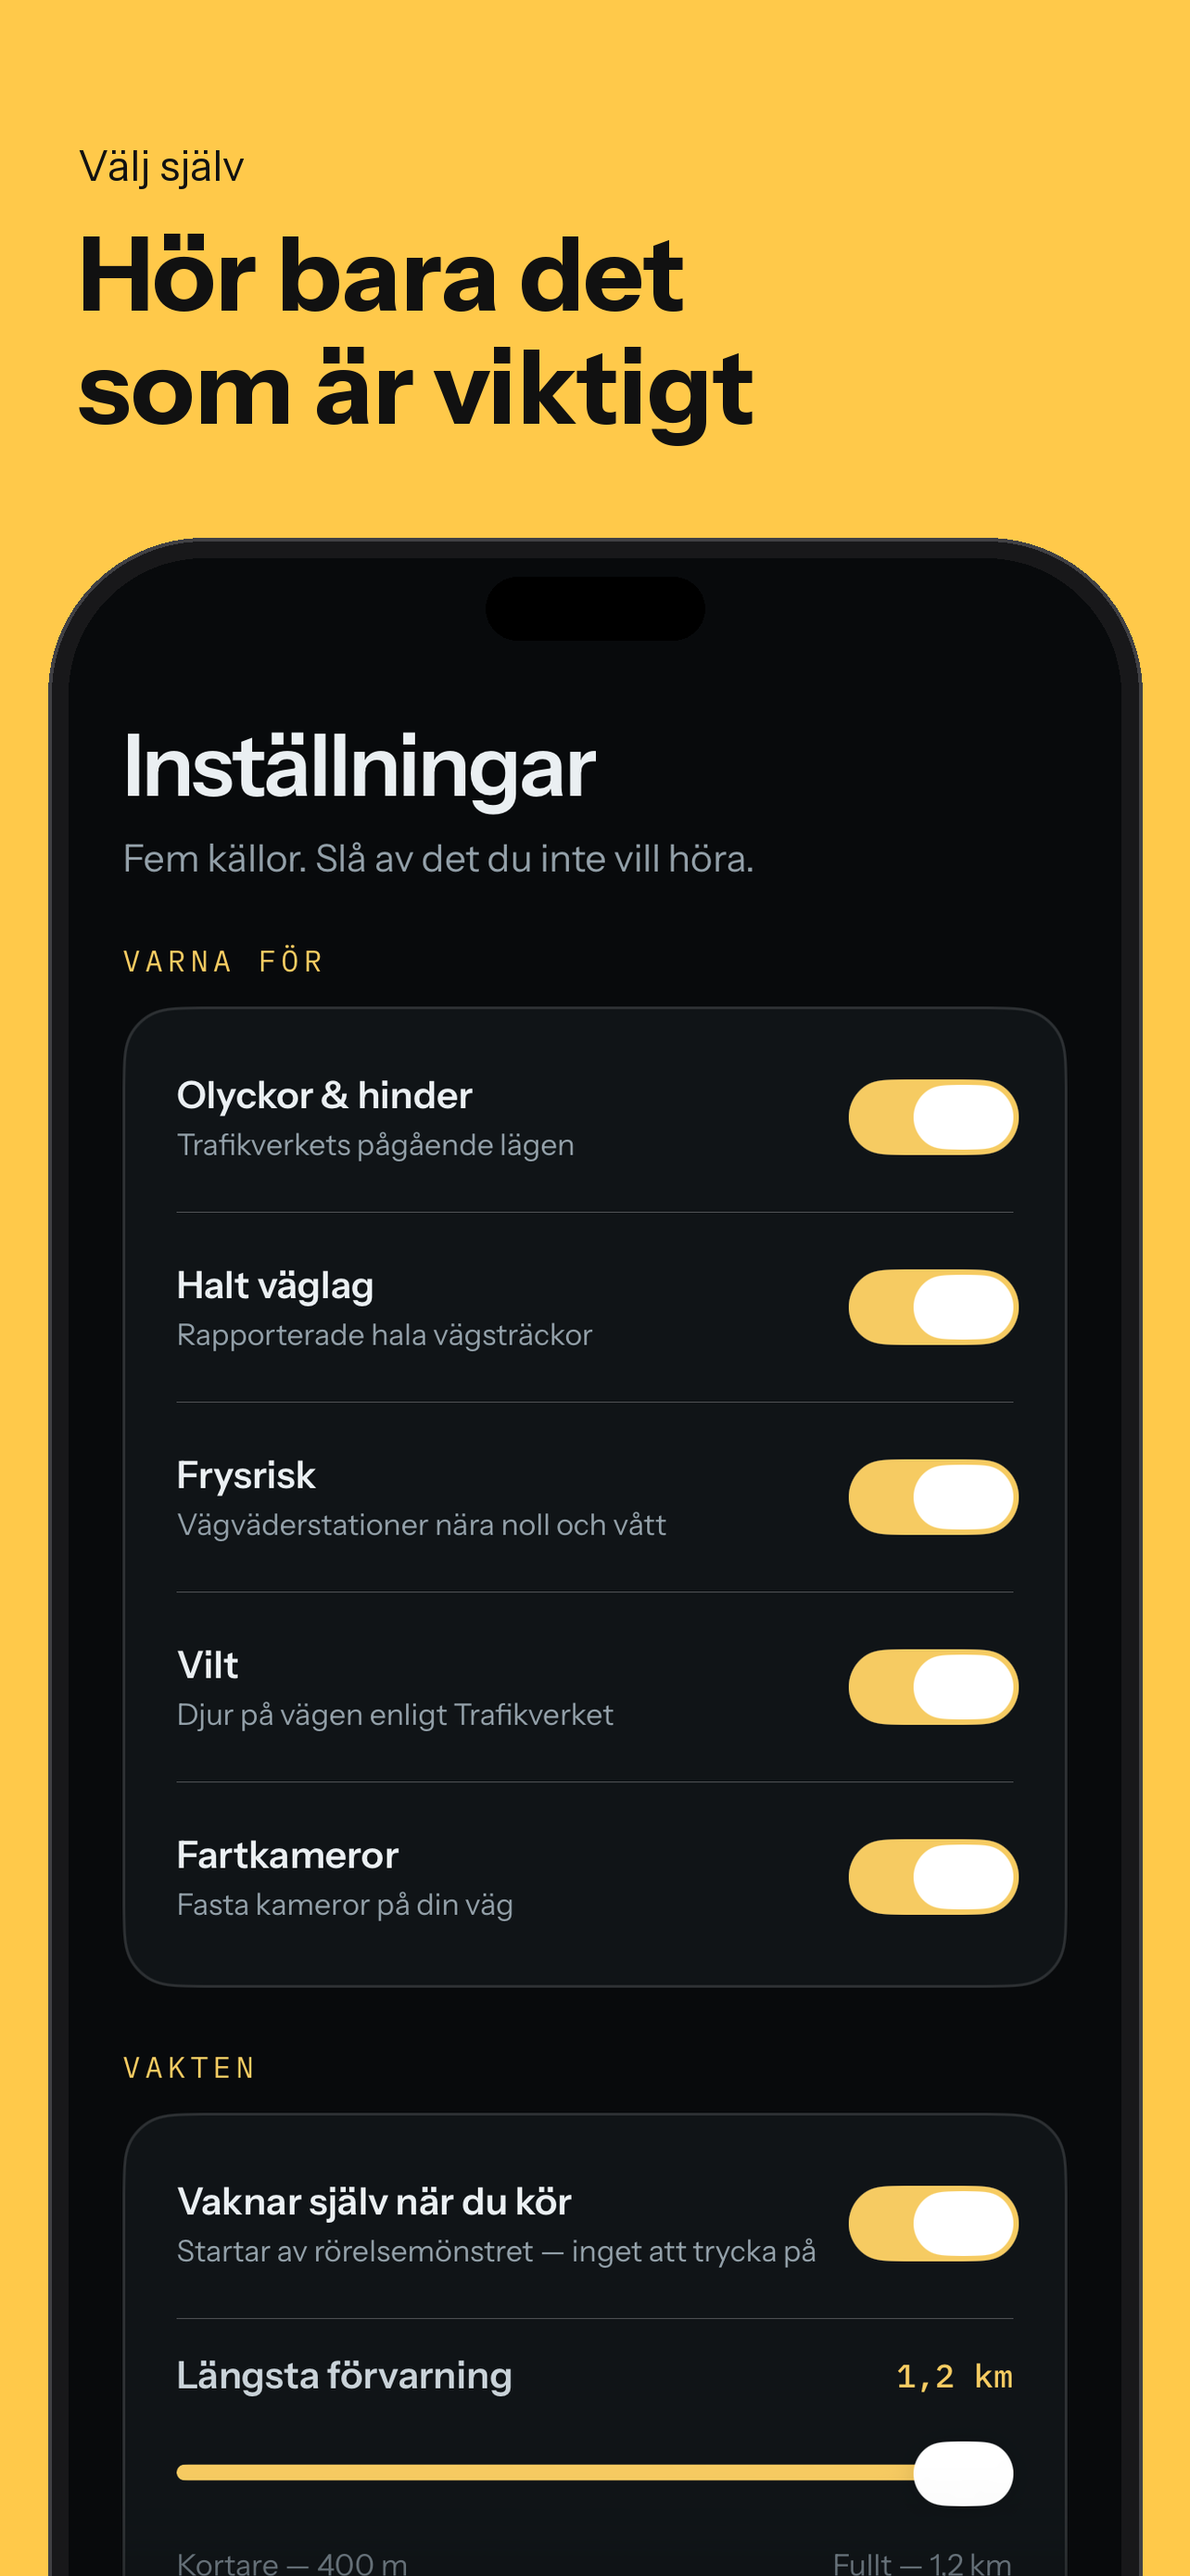
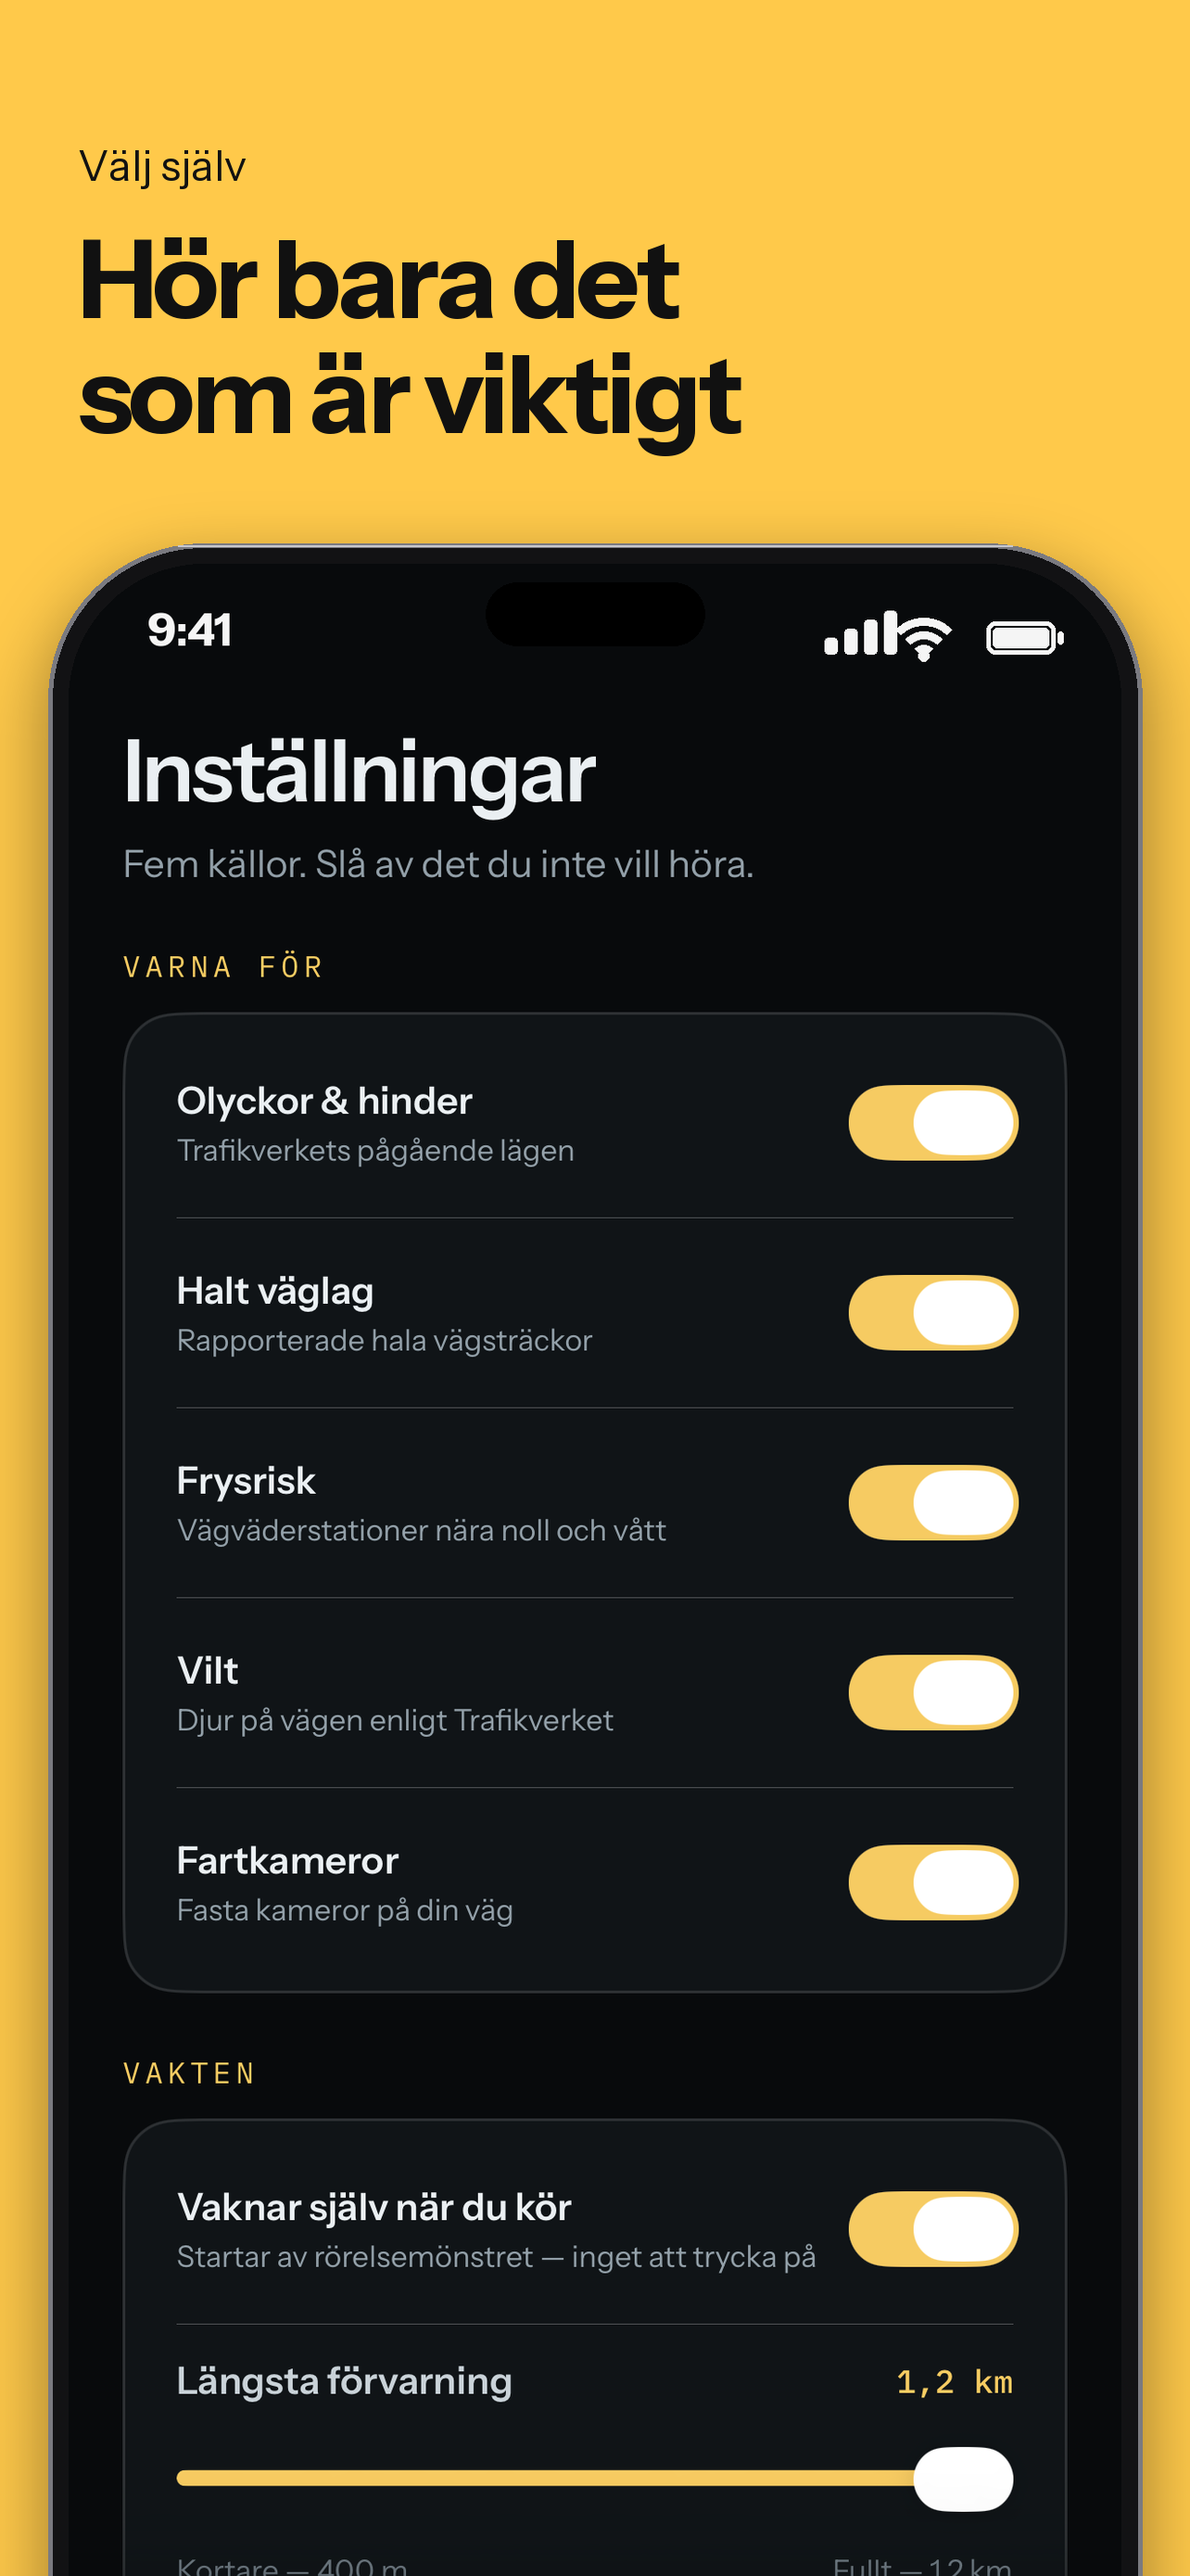
App Store-bilderna: statusrad 9:41, tvåtonig ram med skugga och reflex, tätare rubriker (alf.py, kort #280)
Claude-Session: https://claude.ai/code/session_01S4GvbDfksL4au58J3afJur

diff --git a/marknadsforing/butik/appstore/alf.py b/marknadsforing/butik/appstore/alf.py
@@ -6,7 +6,7 @@ Ut: 1284×2778 (Apples 6,5-tumsfack, det App Store Connect visar för Halkvakt).
 Körs: python3 marknadsforing/butik/appstore/alf.py <råbildsmapp>
 """
 import sys, os
-from PIL import Image, ImageDraw, ImageFont
+from PIL import Image, ImageDraw, ImageFont, ImageFilter
 
 W, H = 1284, 2778
 GUL, MORK = (255, 201, 74), (10, 10, 11)
@@ -34,6 +34,26 @@ def sans(size, bold=True):
     except Exception: pass
     return f
 
+def spärrad(d, x, y, text, font, fill, sparr):
+    for ch in text:
+        d.text((x, y), ch, font=font, fill=fill); x += d.textlength(ch, font=font) + sparr
+
+def statusrad(im, ljus):
+    """iPhones statusrad ovanpå det tomma bandet: 9:41, signal, wifi, batteri — som på Apples egna bilder."""
+    d = ImageDraw.Draw(im); c = (245, 245, 245) if not ljus else (17, 17, 17)
+    d.text((88, 42), "9:41", font=sans(50), fill=c)
+    x0 = im.width - 330
+    for i, h in enumerate((18, 28, 38, 48)):            # signal
+        d.rounded_rectangle((x0 + i * 22, 100 - h, x0 + i * 22 + 14, 100), radius=4, fill=c)
+    wx = im.width - 220                                  # wifi: tre bågar + prick
+    for r, w in ((44, 9), (29, 9), (14, 9)):
+        d.arc((wx - r, 104 - r, wx + r, 104 + r), start=225, end=315, fill=c, width=w)
+    d.ellipse((wx - 6, 96, wx + 6, 108), fill=c)
+    bx = im.width - 150                                  # batteri
+    d.rounded_rectangle((bx, 64, bx + 76, 100), radius=10, outline=c, width=5)
+    d.rounded_rectangle((bx + 7, 71, bx + 69, 93), radius=5, fill=c)
+    d.rounded_rectangle((bx + 79, 75, bx + 85, 89), radius=3, fill=c)
+
 def rama(i, ra, kicker, rubrik, under, ut):
     gul = i % 2 == 0
     duk = Image.new("RGB", (W, H), GUL if gul else MORK)
@@ -41,23 +61,35 @@ def rama(i, ra, kicker, rubrik, under, ut):
     text = SVART if gul else VIT
     y = 150
     if kicker:
-        d.text((M, y), kicker, font=sans(46, False), fill=SVART if gul else GRA); y += 76
+        spärrad(d, M, y, kicker, sans(46, False), SVART if gul else GRA, 0); y += 78
     for rad in rubrik.split("\n"):
-        d.text((M, y), rad, font=sans(112), fill=text); y += 122
+        spärrad(d, M, y, rad, sans(118), text, -4); y += 124
     if under:
-        y += 30; d.text((M, y), under, font=sans(56, False), fill=text); y += 70
-    # Telefonen: statusraden bort, skärmens egen färg i stället; ram, rundade hörn, ö. Toppen 110 px under texten.
+        y += 26; spärrad(d, M, y, under, sans(56, False), text, 0); y += 70
+
+    # Skärmen: statusraden bort, bandet i skärmens färg, en riktig statusrad ovanpå.
     im = Image.open(ra).convert("RGB")
     im.paste(im.getpixel((8, 160)), (0, 0, im.width, 150))
+    statusrad(im, ljus=sum(im.getpixel((8, 160))) > 380)
     sw = PHONE_W - 2 * RAM; sh = round(im.height * sw / im.width)
     im = im.resize((sw, sh), Image.LANCZOS)
     sx = (W - PHONE_W) // 2; sy = y + 110
-    ImageDraw.Draw(duk).rounded_rectangle((sx, sy, sx + PHONE_W, sy + sh + 2 * RAM), radius=R_RAM, fill=GRAFIT, outline=GRAFIT_KANT, width=4)
+
+    # Skugga (mjuk, under ramen), sedan ramen i två toner: metallkant utanpå, mörk fas innanför.
+    sk = Image.new("RGBA", (W, H), (0, 0, 0, 0))
+    ImageDraw.Draw(sk).rounded_rectangle((sx - 6, sy + 24, sx + PHONE_W + 6, sy + sh + 2 * RAM + 40), radius=R_RAM, fill=(0, 0, 0, 90 if gul else 140))
+    sk = sk.filter(ImageFilter.GaussianBlur(34))
+    duk = Image.alpha_composite(duk.convert("RGBA"), sk)
+    d = ImageDraw.Draw(duk)
+    kant = (122, 122, 128) if gul else (96, 96, 102)
+    d.rounded_rectangle((sx, sy, sx + PHONE_W, sy + sh + 2 * RAM), radius=R_RAM, fill=kant)
+    d.rounded_rectangle((sx + 5, sy + 5, sx + PHONE_W - 5, sy + sh + 2 * RAM - 5), radius=R_RAM - 5, fill=(18, 18, 20))
+    d.line((sx + 140, sy + 2, sx + PHONE_W - 140, sy + 2), fill=(200, 200, 205), width=2)   # ljusreflex på överkanten
     mask = Image.new("L", im.size, 0)
     ImageDraw.Draw(mask).rounded_rectangle((0, 0, sw - 1, sh - 1), radius=R_SCREEN, fill=255)
     duk.paste(im, (sx + RAM, sy + RAM), mask)
     ImageDraw.Draw(duk).rounded_rectangle((W // 2 - 118, sy + RAM + 20, W // 2 + 118, sy + RAM + 88), radius=34, fill=(0, 0, 0))
-    duk.save(ut, "PNG", optimize=True); print(os.path.basename(ut), "telefonen börjar", sy)
+    duk.convert("RGB").save(ut, "PNG", optimize=True); print(os.path.basename(ut))
 
 if __name__ == "__main__":
     src = sys.argv[1]; out = os.path.join(os.path.dirname(os.path.abspath(__file__)), "alf"); os.makedirs(out, exist_ok=True)
